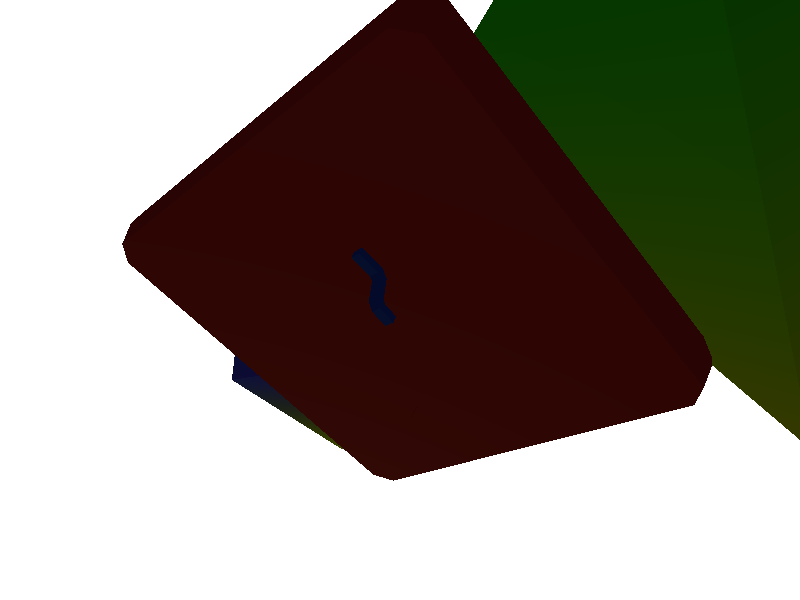
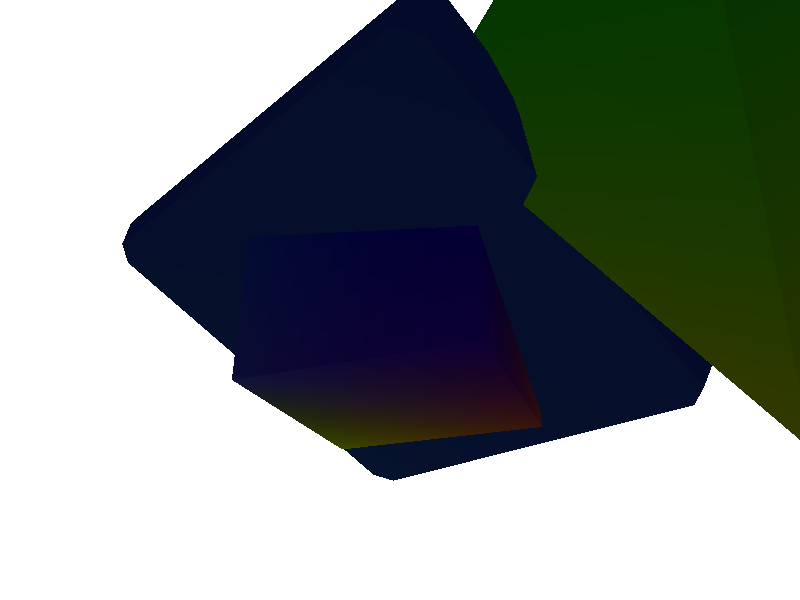
screen-13-cli-1 - WIP 11 - Add depth testing.

diff --git a/experimentation/screen-13-cli-1/src/main.rs b/experimentation/screen-13-cli-1/src/main.rs
@@ -339,6 +339,9 @@ fn main() -> Result<(), Box<dyn std::error::Error>> {
         render_graph
             .begin_pass("Render Cube")
             .bind_pipeline(&pipeline)
+            .set_depth_stencil(
+                DepthStencilMode::DEPTH_WRITE
+            )
             .access_node(cube_vertex_node, AccessType::VertexBuffer)
             .access_node(cube_index_node, AccessType::IndexBuffer)
             .access_node(pyramid_vertex_node, AccessType::VertexBuffer)
